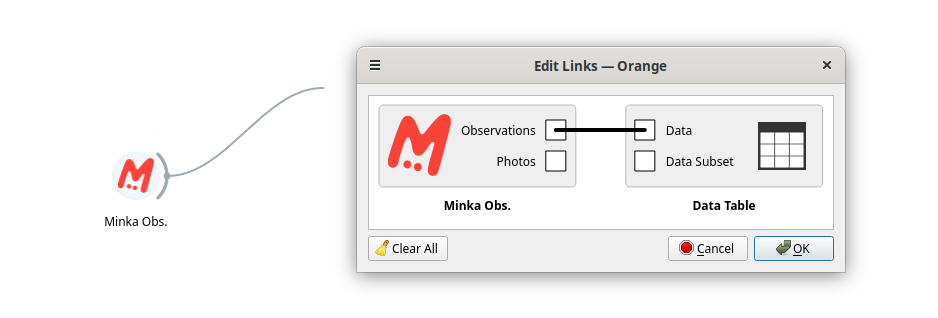
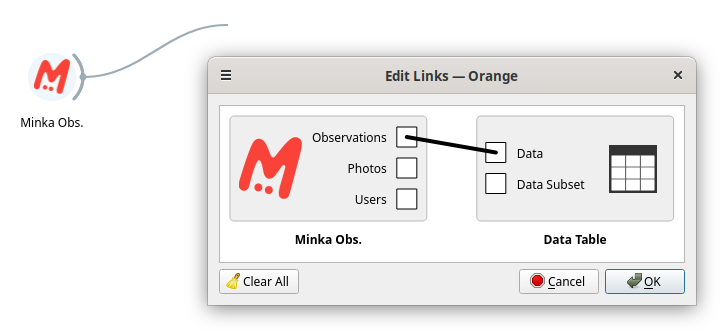
remove dependencies not needed

diff --git a/tests/test_external_apis.py b/tests/test_external_apis.py
@@ -3,9 +3,8 @@ import os
 
 import Orange.data
 import pandas as pd
-
-# import pyodcollect.occore as occore
-# import pyodcollect.ocmodels as ocmodels
+import pyodcollect.occore as occore
+import pyodcollect.ocmodels as ocmodels
 import pytest
 import requests
 from mecoda_minka import get_dfs, get_obs
@@ -16,11 +15,6 @@ from mecoda_orange.canAIRio_fixed_extra_info import get_historic_data_fixed_stat
 from mecoda_orange.canAIRio_mobile import get_mobile_stations
 from mecoda_orange.canAIRio_mobile_extra_info import get_mobile_track
 from mecoda_orange.minka_marine_filter import get_marine
-from mecoda_orange.minka_search_taxa import (
-    get_obs_from_common_name,
-    get_obs_from_sci_name,
-)
-from mecoda_orange.minka_taxa import get_descendants
 
 
 @pytest.fixture(name="observations", scope="session")
@@ -95,44 +89,6 @@ def test_get_images(observations):
     assert [
         meta.attributes for meta in out.domain.metas if meta.name == "photos_medium_url"
     ] == [{"type": "image"}]
-
-
-# tests on minka_search_taxa
-@pytest.mark.skip()
-def test_get_obs_from_sci_name():
-    name = "Peltodoris atromaculata"
-    obs, ancestry, taxon_name = get_obs_from_sci_name(name)
-
-    assert type(obs[0].created_at) == datetime.datetime
-    assert ancestry.startswith("kingdom")
-    assert taxon_name[0].isupper()
-
-
-def test_get_obs_from_common_name():
-    name = "pulpo"
-    obs, ancestry, sci_name = get_obs_from_common_name(name)
-    assert len(obs) > 0
-    assert ancestry.startswith("kingdom")
-    assert sci_name[0].isupper()
-
-
-# tests on minka_taxa
-def test_get_descendants(taxon_tree):
-    for name in ["Edmundsella", "Tripterygiidae", "Gadiformes"]:
-        taxa = get_descendants(name, taxon_tree)
-        assert len(taxa) > 1
-        assert taxa[0] == ""
-        assert taxa[1][0].isupper()
-
-
-def test_minka_taxa(taxon_tree):
-    name = "Asterina gibbosa"
-    id_selected = taxon_tree[taxon_tree["taxon_name"] == name].taxon_id.item()
-    obs = get_obs(taxon_id=id_selected)
-    assert len(obs) > 0
-    assert type(obs[0].created_at) == datetime.datetime
-    assert obs[0].quality_grade in ["casual", "research", "needs_id"]
-    assert type(obs[0].user_id) == int
 
 
 # tests on odour_collect

diff --git a/setup.py b/setup.py
@@ -7,7 +7,7 @@ from setuptools import find_packages, setup
 NAME = "Orange3-MECODA"
 DOCUMENTATION_NAME = "Orange MECODA"
 
-VERSION = "2.5.0"
+VERSION = "2.5.1"
 
 AUTHOR = "Ana Alvarez, ICM-CSIC"
 AUTHOR_EMAIL = "ana.alvarez@icm.csic.es"
@@ -61,15 +61,12 @@ setup(
         "pandas >= 1.4.4",
         "Orange3 >= 3.31.1",
         "pyodcollect >= 1.1.0",
-        "mecoda-minka >= 1.7.1",
+        "mecoda-minka >= 1.7.3",
         "mecoda-inat >= 1.0.2",
         "smartcitizen-connector == 1.0.4",  # Smart Citizen connector should be fixed at a version
         "nest_asyncio",
         "pydantic >= 2.4.2",
-        "pytest",
         "tabulate",
-        "PyQt5",
-        "PyQtWebEngine",
     ],
     keywords=KEYWORDS,
     include_package_data=True,

diff --git a/mecoda_orange/minka.py b/mecoda_orange/minka.py
@@ -339,6 +339,7 @@ class MinkaWidget(OWBaseWidget):
                 unique_observers = list(self.df_obs.user_login.unique())
                 self.df_obs.identifiers = self.df_obs["identifiers"].str.split(", ")
                 all_identifiers = self.df_obs["identifiers"].explode().tolist()
+                all_identifiers = [i for i in all_identifiers if i is not None]
                 unique_identifiers = list(set(all_identifiers))
                 total_observers = list(set(unique_identifiers + unique_observers))
 

diff --git a/docs/english/datathon_nov2023_eng.md b/docs/english/datathon_nov2023_eng.md
@@ -64,7 +64,7 @@ Here we see that a line is created between the widgets, which communicates infor
 We are going to work with the Minka widget to obtain the biodiversity observations recorded in the El Prat area.
 
 ### **Extract data to analyze**
-We select the Minka widget and double-click on the widget to display the dialogue box. We select the geographical area that includes the location of the Prat town hall, which we can see here in Minka: [https://minka-sdg.org/observations?place_id=246](https://minka-sdg.org/observations?place_id=246)
+We select the Minka widget and double-click on the widget to display the dialogue box. We select the geographical area that includes the location of El Prat city, which we can see here in Minka: [https://minka-sdg.org/places/bioprat](https://minka-sdg.org/places/bioprat)
 
 The downloads will take a few minutes to process, because these are requests for a large volume of observations. Be patient. If you see a message that the process is taking too long, simply click "Wait" and let it finish. Finally, you will get something like this:
 
@@ -88,7 +88,7 @@ It's our observations data in a table, with all our fields. Now let's do the sam
 
 <img src="../images/bioprat_5.png" alt="bioprat_5" width="400"/>
 
-We already have all the data extracted. We see that the connection of each of the two lines from Minka to the Data Table is different and tells us that in one it is taking "Observations" to the data in the table and in the other case it is taking "Photos" to the data in the table. second table.
+We already have all the data extracted. We see that the connection of each of the three lines from Minka to the Data Table is different and tells us that in one it is taking "Observations" to the data in the table, in the other case it is taking "Photos" to the data in the table. a second table and the other taking “Users” to the data in the table, a third table.
 
 
 ## Selection of research-grade observations

diff --git a/README.md b/README.md
@@ -86,6 +86,14 @@ The widget splits the Table of observations into two dataframes: one for marine 
 
 ### <img src="https://github.com/eosc-cos4cloud/mecoda-orange/blob/master/mecoda_orange/icons/marine_filter_widget.png" alt="marine-filter-widget" width="600"/> 
 
+### <img src="https://github.com/eosc-cos4cloud/mecoda-orange/blob/master/mecoda_orange/icons/icons/minka-users.png" alt="fish-minka.png" width="50"/> Contributions
+
+When you process the observations table, selecting some rows or filtering in some way, you may want to get the contribution of every user to this new dataset of observations. Just connect the `Minka Contributions` widget and get the observations every user is contributing to the dataset.
+
+### <img src="https://github.com/eosc-cos4cloud/mecoda-orange/blob/master/mecoda_orange/icons/minka_contributions_workflow.png" alt="minka_contributions_workflow" width="600"/> 
+
+
+
 ## <img src="https://github.com/eosc-cos4cloud/mecoda-orange/blob/master/mecoda_orange/icons/odourcollect-logo.png" alt="odourcollect-logo" width="75"/> OdourCollect widget 
 
 The Odour Collect widget allows the user to get observations from the Odour Collect API. The widget looks like this:
